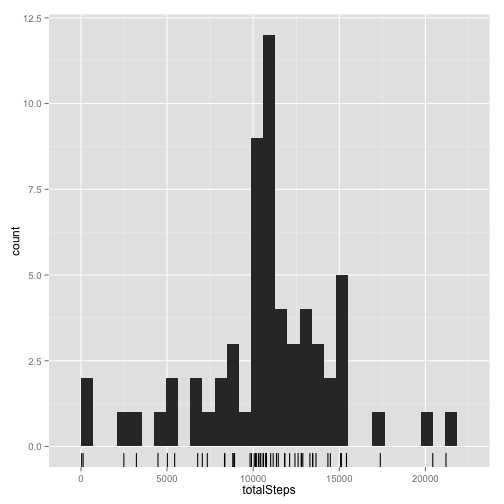
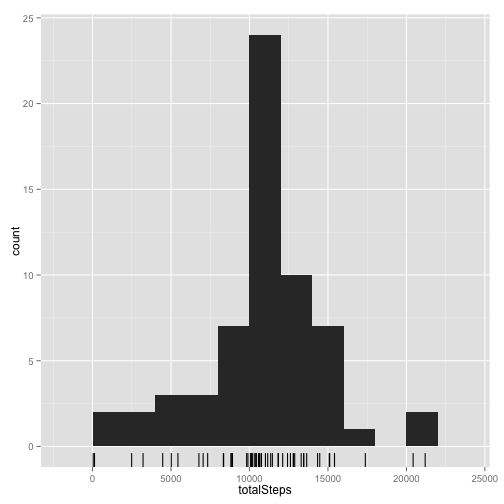
Reran knitr to keep the rmd and other files in sync.

diff --git a/PA1_template.html b/PA1_template.html
@@ -297,29 +297,20 @@ result &lt;- avgStepsPerInterval[averageSteps == maxAverageNumberOfSteps, interv
 Take the mean step of each interval to replace the missing values.</p>
 
 <pre><code class="r">nomissing.dt &lt;- activities.dt
-nomissing.dt[is.na(steps), `:=`(steps, round(avgStepsPerInterval[avgStepsPerInterval$interval == 
+nomissing.dt[is.na(steps), `:=`(steps, as.integer(avgStepsPerInterval[avgStepsPerInterval$interval == 
     interval, averageSteps]))]
 </code></pre>
 
-<pre><code>## Warning: Coerced &#39;double&#39; RHS to &#39;integer&#39; to match the column&#39;s type; may
-## have truncated precision. Either change the target column to &#39;double&#39;
-## first (by creating a new &#39;double&#39; vector length 17568 (nrows of entire
-## table) and assign that; i.e. &#39;replace&#39; column), or coerce RHS to &#39;integer&#39;
-## (e.g. 1L, NA_[real|integer]_, as.*, etc) to make your intent clear and for
-## speed. Or, set the column type correctly up front when you create the
-## table and stick to it, please.
-</code></pre>
-
 <pre><code>##        steps       date interval    dateTimeInterval
-##     1:     2 2012-10-01        0 2012-10-01 00:00:00
+##     1:     1 2012-10-01        0 2012-10-01 00:00:00
 ##     2:     0 2012-10-01        5 2012-10-01 00:05:00
 ##     3:     0 2012-10-01       10 2012-10-01 00:10:00
 ##     4:     0 2012-10-01       15 2012-10-01 00:15:00
 ##     5:     0 2012-10-01       20 2012-10-01 00:20:00
 ##    ---                                              
-## 17564:     5 2012-11-30     2335 2012-11-30 23:35:00
+## 17564:     4 2012-11-30     2335 2012-11-30 23:35:00
 ## 17565:     3 2012-11-30     2340 2012-11-30 23:40:00
-## 17566:     1 2012-11-30     2345 2012-11-30 23:45:00
+## 17566:     0 2012-11-30     2345 2012-11-30 23:45:00
 ## 17567:     0 2012-11-30     2350 2012-11-30 23:50:00
 ## 17568:     1 2012-11-30     2355 2012-11-30 23:55:00
 </code></pre>
@@ -330,14 +321,11 @@ totalStepsPerDay.noNA &lt;- nomissing.dt[, list(totalSteps = sum(steps, na.rm = 
 
 # TODO: add title and proper axis titles maybe convert totals to table?
 g &lt;- ggplot(totalStepsPerDay.noNA, aes(x = totalSteps))
-g &lt;- g + geom_histogram(bidwidth = 2000)
+g &lt;- g + geom_histogram(binwidth = 2000)
 g + geom_rug()
 </code></pre>
 
-<pre><code>## stat_bin: binwidth defaulted to range/30. Use &#39;binwidth = x&#39; to adjust this.
-</code></pre>
-
[2 lines of base64/hex data omitted]
 
 <pre><code class="r">
 # mean and median total steps per day
@@ -345,11 +333,49 @@ totals.noNA &lt;- totalStepsPerDay.noNA[, list(mean = mean(totalSteps), median =
 </code></pre>
 
 <ul>
-<li>The mean step per day without NA is 1.0766 &times; 10<sup>4</sup></li>
-<li>The median step per day without NA is 10762</li>
+<li>The mean step per day without NA is 1.075 &times; 10<sup>4</sup></li>
+<li>The median step per day without NA is 10641</li>
 </ul>
 
 <h2>Are there differences in activity patterns between weekdays and weekends?</h2>
+
+<pre><code class="r">getWeekDayType &lt;- function(date) {
+    ifelse(wday %in% c(1, 7), &quot;weekday&quot;, &quot;weekend&quot;)
+}
+
+nomissing.dt[, `:=`(weekDayType, as.factor(getWeekDayType(date)))]
+</code></pre>
+
+<pre><code>## Error: &#39;match&#39; requires vector arguments
+</code></pre>
+
+<pre><code class="r">a$weekDayType &lt;- as.factor(a$weekDayType)
+</code></pre>
+
+<pre><code>## Error: object &#39;a&#39; not found
+</code></pre>
+
+<pre><code class="r">
+nomissing.avgSteps &lt;- nomissing.dt[, list(averageSteps = mean(steps, na.rm = TRUE)), 
+    by = list(weekDayType, interval)]
+</code></pre>
+
+<pre><code>## Error: object &#39;weekDayType&#39; not found
+</code></pre>
+
+<pre><code class="r">
+g &lt;- ggplot(nomissing.avgSteps, aes(interval, averageSteps))
+</code></pre>
+
+<pre><code>## Error: object &#39;nomissing.avgSteps&#39; not found
+</code></pre>
+
+<pre><code class="r">g &lt;- g + geom_line()
+g + facet_grid(weekDayType ~ .)
+</code></pre>
+
+<pre><code>## Error: At least one layer must contain all variables used for facetting
+</code></pre>
 
 </body>
 

diff --git a/PA1_template.md b/PA1_template.md
@@ -128,31 +128,21 @@ Take the mean step of each interval to replace the missing values.
 
 ```r
 nomissing.dt <- activities.dt
-nomissing.dt[is.na(steps), `:=`(steps, round(avgStepsPerInterval[avgStepsPerInterval$interval == 
+nomissing.dt[is.na(steps), `:=`(steps, as.integer(avgStepsPerInterval[avgStepsPerInterval$interval == 
     interval, averageSteps]))]
 ```
 
 ```
-## Warning: Coerced 'double' RHS to 'integer' to match the column's type; may
-## have truncated precision. Either change the target column to 'double'
-## first (by creating a new 'double' vector length 17568 (nrows of entire
-## table) and assign that; i.e. 'replace' column), or coerce RHS to 'integer'
-## (e.g. 1L, NA_[real|integer]_, as.*, etc) to make your intent clear and for
-## speed. Or, set the column type correctly up front when you create the
-## table and stick to it, please.
-```
-
-```
 ##        steps       date interval    dateTimeInterval
-##     1:     2 2012-10-01        0 2012-10-01 00:00:00
+##     1:     1 2012-10-01        0 2012-10-01 00:00:00
 ##     2:     0 2012-10-01        5 2012-10-01 00:05:00
 ##     3:     0 2012-10-01       10 2012-10-01 00:10:00
 ##     4:     0 2012-10-01       15 2012-10-01 00:15:00
 ##     5:     0 2012-10-01       20 2012-10-01 00:20:00
 ##    ---                                              
-## 17564:     5 2012-11-30     2335 2012-11-30 23:35:00
+## 17564:     4 2012-11-30     2335 2012-11-30 23:35:00
 ## 17565:     3 2012-11-30     2340 2012-11-30 23:40:00
-## 17566:     1 2012-11-30     2345 2012-11-30 23:45:00
+## 17566:     0 2012-11-30     2345 2012-11-30 23:45:00
 ## 17567:     0 2012-11-30     2350 2012-11-30 23:50:00
 ## 17568:     1 2012-11-30     2355 2012-11-30 23:55:00
 ```
@@ -166,12 +156,8 @@ totalStepsPerDay.noNA <- nomissing.dt[, list(totalSteps = sum(steps, na.rm = TRU
 
 # TODO: add title and proper axis titles maybe convert totals to table?
 g <- ggplot(totalStepsPerDay.noNA, aes(x = totalSteps))
-g <- g + geom_histogram(bidwidth = 2000)
+g <- g + geom_histogram(binwidth = 2000)
 g + geom_rug()
-```
-
-```
-## stat_bin: binwidth defaulted to range/30. Use 'binwidth = x' to adjust this.
 ```
 
 ![plot of chunk Steps per day no NA](figure/Steps_per_day_no_NA.png) 
@@ -183,10 +169,57 @@ totals.noNA <- totalStepsPerDay.noNA[, list(mean = mean(totalSteps), median = me
 ```
 
 
-- The mean step per day without NA is 1.0766 &times; 10<sup>4</sup>
-- The median step per day without NA is 10762
+- The mean step per day without NA is 1.075 &times; 10<sup>4</sup>
+- The median step per day without NA is 10641
 
 ## Are there differences in activity patterns between weekdays and weekends?
 
+```r
+getWeekDayType <- function(date) {
+    ifelse(wday %in% c(1, 7), "weekday", "weekend")
+}
+
+nomissing.dt[, `:=`(weekDayType, as.factor(getWeekDayType(date)))]
+```
+
+```
+## Error: 'match' requires vector arguments
+```
+
+```r
+a$weekDayType <- as.factor(a$weekDayType)
+```
+
+```
+## Error: object 'a' not found
+```
+
+```r
+
+nomissing.avgSteps <- nomissing.dt[, list(averageSteps = mean(steps, na.rm = TRUE)), 
+    by = list(weekDayType, interval)]
+```
+
+```
+## Error: object 'weekDayType' not found
+```
+
+```r
+
+g <- ggplot(nomissing.avgSteps, aes(interval, averageSteps))
+```
+
+```
+## Error: object 'nomissing.avgSteps' not found
+```
+
+```r
+g <- g + geom_line()
+g + facet_grid(weekDayType ~ .)
+```
+
+```
+## Error: At least one layer must contain all variables used for facetting
+```
 
 
